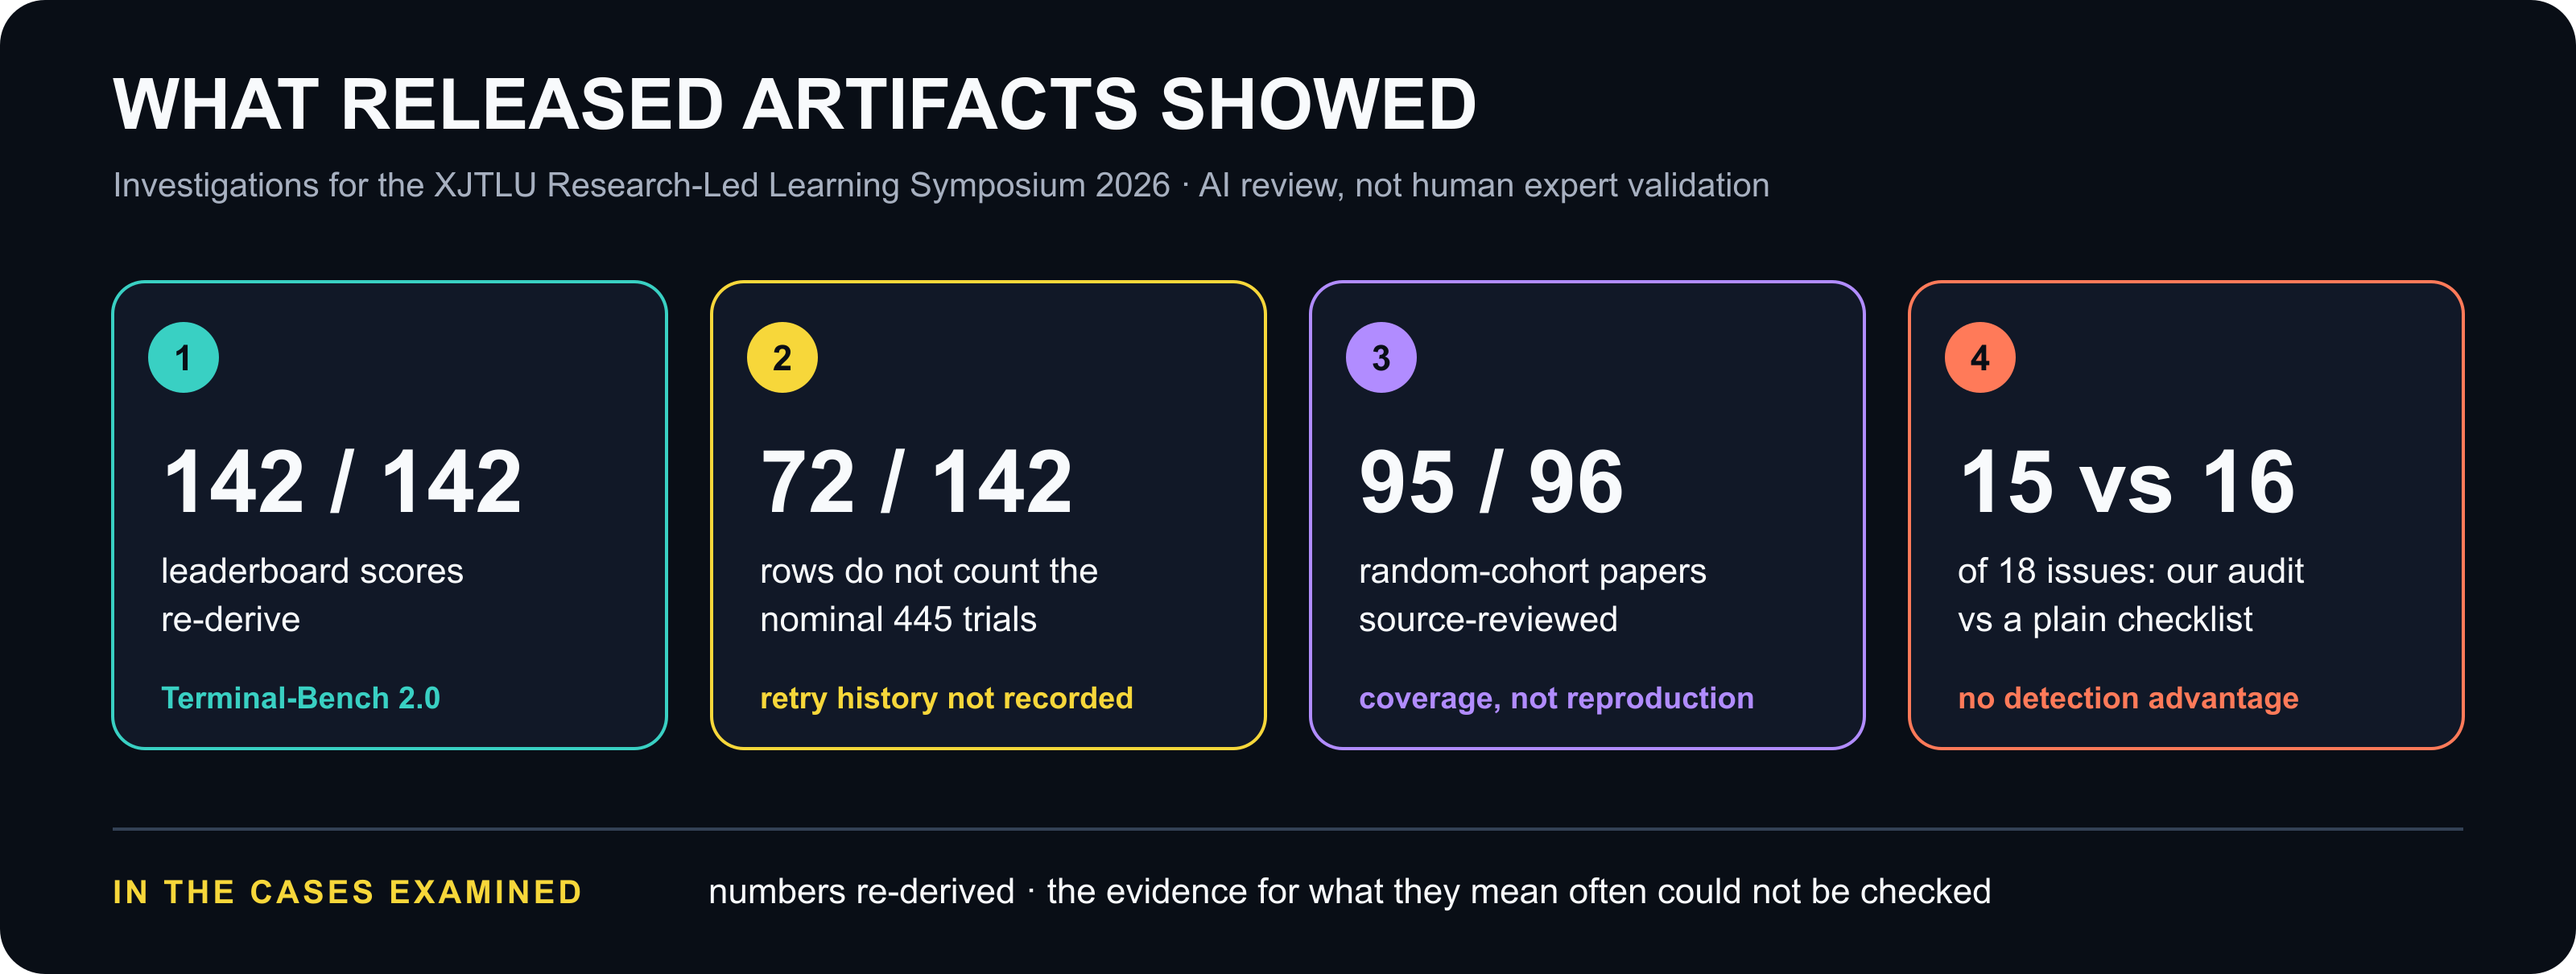
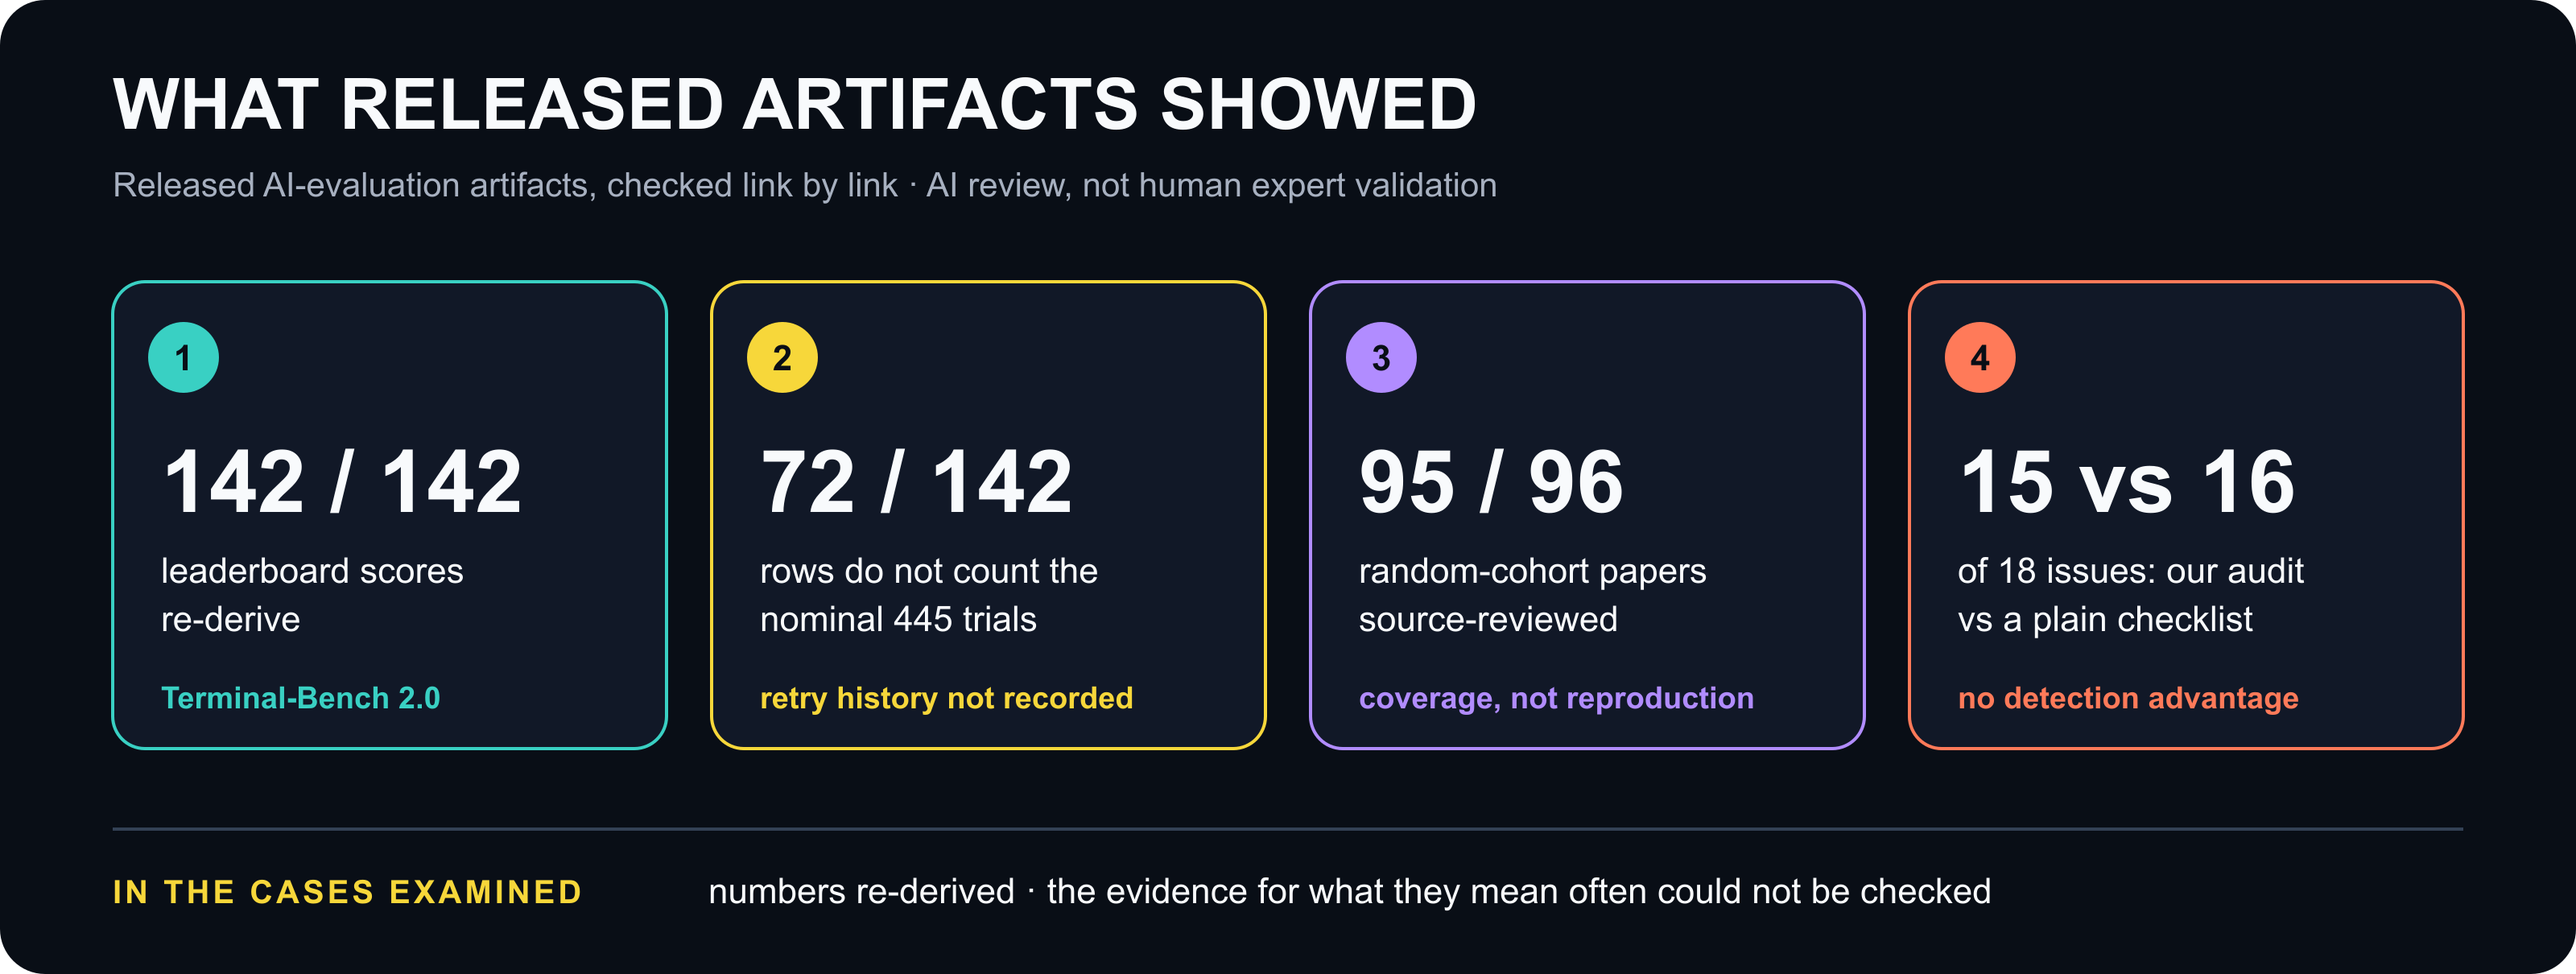
README: remove RLLS references (badge, text, figure subtitle)

Changed region(s): [[0.0312, 0.1529, 0.6875, 0.214]]

diff --git a/scripts/build_readme_figures.py b/scripts/build_readme_figures.py
@@ -119,7 +119,7 @@ def readings():
 
 def findings():
     b = [t(70, 80, "WHAT RELEASED ARTIFACTS SHOWED", 44, INK, 700),
-         t(70, 122, "Investigations for the XJTLU Research-Led Learning Symposium 2026 · AI review, not human expert validation", 21, MUTED)]
+         t(70, 122, "Released AI-evaluation artifacts, checked link by link · AI review, not human expert validation", 21, MUTED)]
     gap = 28
     w = (1460 - 3 * gap) // 4
     for i, (c, big, l1, l2, small) in enumerate([(TEAL, "142 / 142", "leaderboard scores", "re-derive", "Terminal-Bench 2.0"),

diff --git a/README.md b/README.md
@@ -3,8 +3,7 @@
 </p>
 
 <p align="center">
-  <a href="https://benchmarkaudit.org/rlls/"><img src="https://img.shields.io/badge/RLLS_2026-judge_page-39D0C3?style=flat-square&labelColor=111827" alt="RLLS 2026 judge page"></a>
-  <a href="https://benchmarkaudit.org/lab/platform/library/"><img src="https://img.shields.io/badge/investigations-case_library-B18CFF?style=flat-square&labelColor=111827" alt="Case library"></a>
+  <a href="https://benchmarkaudit.org/lab/platform/library/"><img src="https://img.shields.io/badge/investigations-case_library-39D0C3?style=flat-square&labelColor=111827" alt="Case library"></a>
   <a href="https://arxiv.org/abs/2609.26826"><img src="https://img.shields.io/badge/origin_study-arXiv_2609.26826-FF7A59?style=flat-square&labelColor=111827" alt="Origin study on arXiv"></a>
   <a href="LICENSE"><img src="https://img.shields.io/badge/license-Apache--2.0-F7D73A?style=flat-square&labelColor=111827" alt="License: Apache-2.0"></a>
   <img src="https://img.shields.io/badge/python-3.11%E2%80%933.14-CBD5E1?style=flat-square&labelColor=111827" alt="Python 3.11 to 3.14">
@@ -43,8 +42,7 @@ built on it holds.
 <p align="center"><img src="figures/readme/eval-evidence-readme-findings.svg" width="100%" alt="What released artifacts showed: 142 of 142 leaderboard scores re-derive; 72 of 142 rows do not count the nominal 445 trials; 95 of 96 random-cohort papers source-reviewed, coverage not reproduction; our audit 15 vs a plain checklist 16 of 18 issues, no detection advantage."></p>
 
 Eval Evidence grew out of co-authored work on Terminal-Bench [1] and was tested on released
-AI-evaluation artifacts for the XJTLU Research-Led Learning Symposium 2026. Walk through the
-cases on the [RLLS 2026 page](https://benchmarkaudit.org/rlls/) or the
+AI-evaluation artifacts. Walk through each case, link by link, in the
 [case library](https://benchmarkaudit.org/lab/platform/library/). All review was AI review, not
 independent human expert validation.
 
